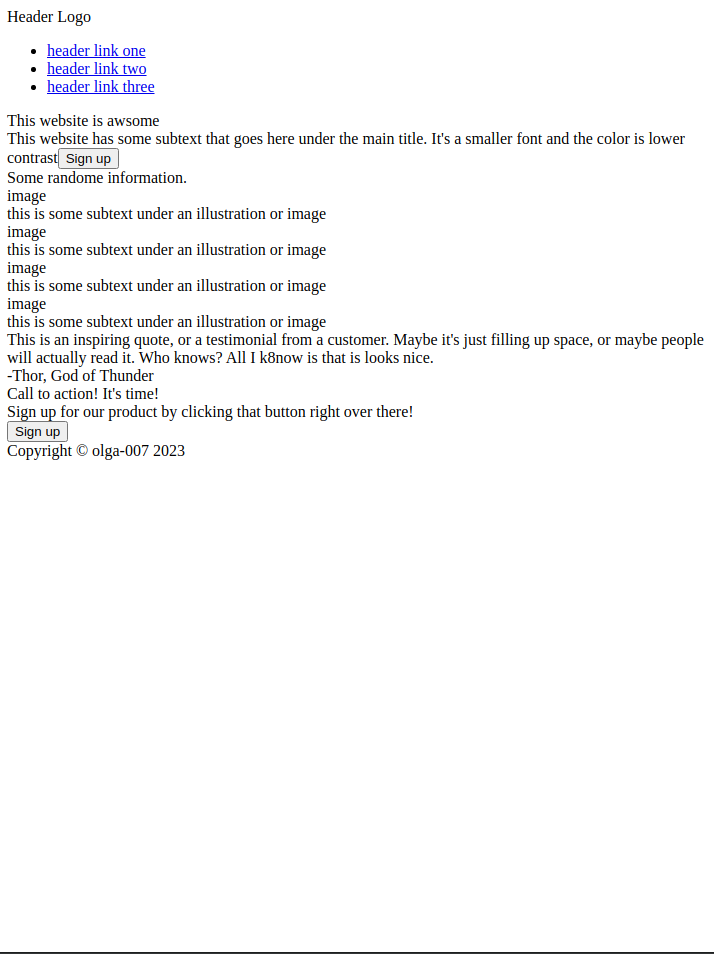
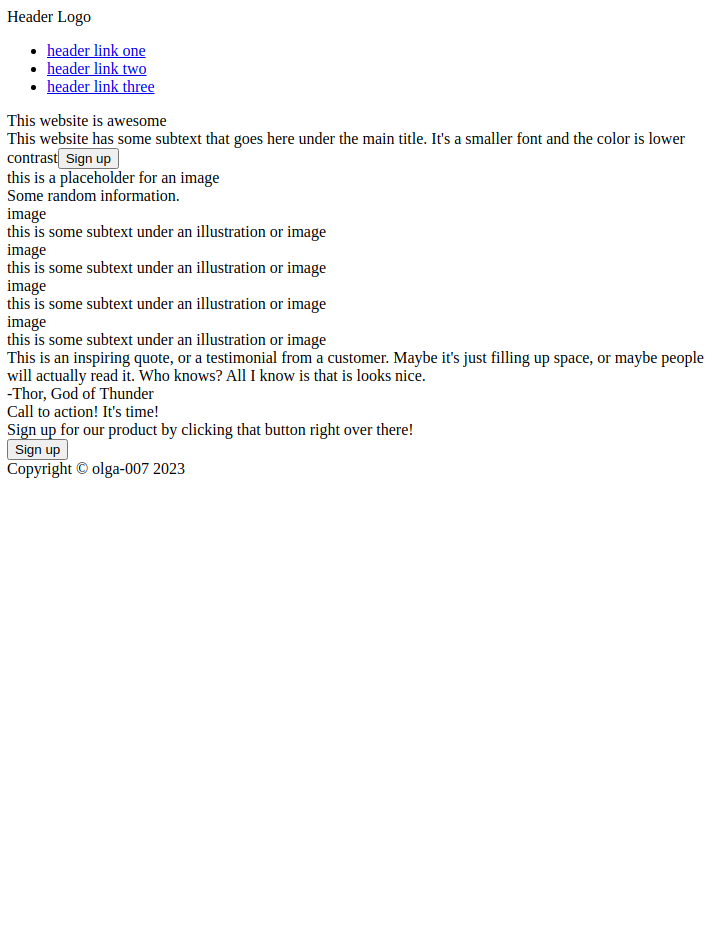
Fix typos in the initial html

Changed region(s): [[0.0, 0.0305, 0.986, 0.5184]]

diff --git a/index.html b/index.html
@@ -18,30 +18,30 @@
         </div>
         <div>
             <div class="title-desc">
-                <div class="title">This website is awsome</div>
+                <div class="title">This website is awesome</div>
                 <div>This website has some subtext that goes here under the main title. It's a smaller font and the color is lower contrast<button>Sign up</button></div>
             </div>
-            <div class="title-img"></div>
+            <div class="title-img">this is a placeholder for an image</div>
         </div>
     </div>
     <div class="info-section">
-        <div class="info-title">Some randome information.</div>
+        <div class="info-title">Some random information.</div>
         <div class="items">
             <div class="item">
                 <div>image</div>
-                <div class="img-text"></div>this is some subtext under an illustration or image</div>
+                <div class="img-text">this is some subtext under an illustration or image</div>
             </div>
             <div class="item">
                 <div>image</div>
-                <div class="img-text"></div>this is some subtext under an illustration or image</div>
+                <div class="img-text">this is some subtext under an illustration or image</div>
             </div>
             <div class="item">
                 <div>image</div>
-                <div class="img-text"></div>this is some subtext under an illustration or image</div>
+                <div class="img-text">this is some subtext under an illustration or image</div>
             </div>
             <div class="item">
                 <div>image</div>
-                <div class="img-text"></div>this is some subtext under an illustration or image</div>
+                <div class="img-text">this is some subtext under an illustration or image</div>
             </div>
         </div>
     </div>
